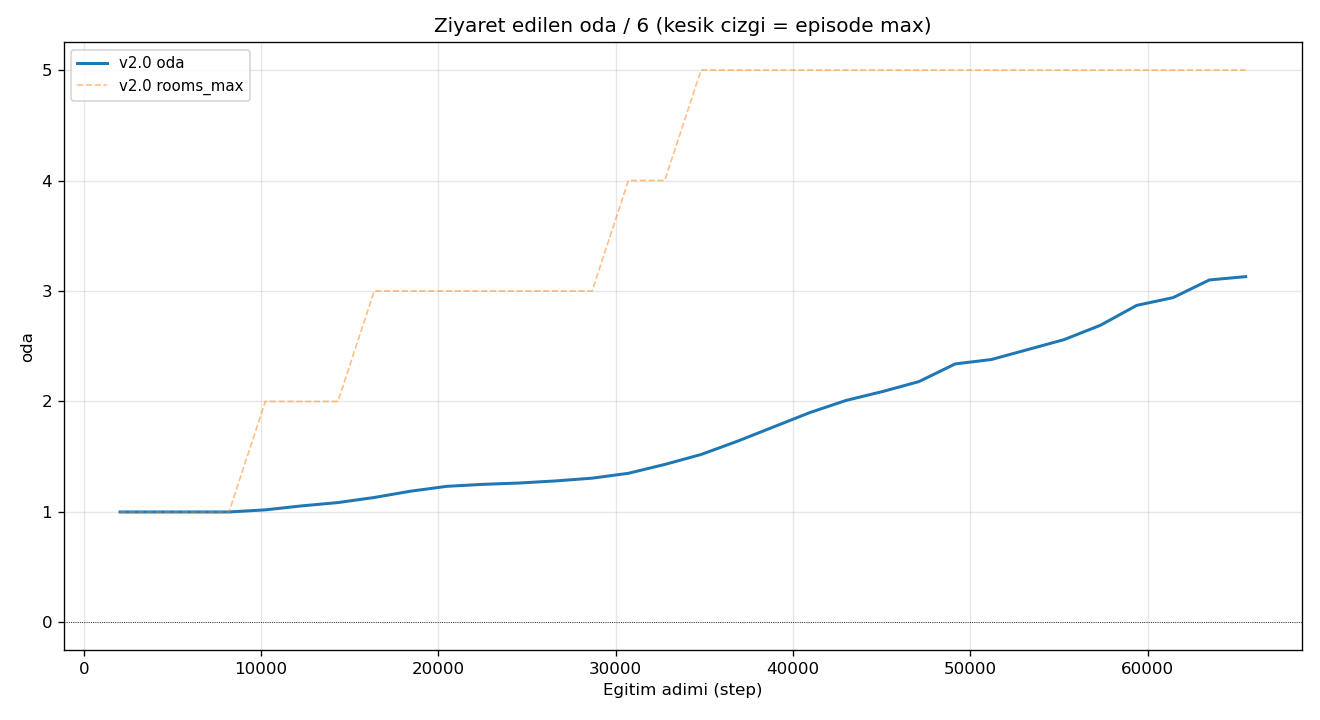
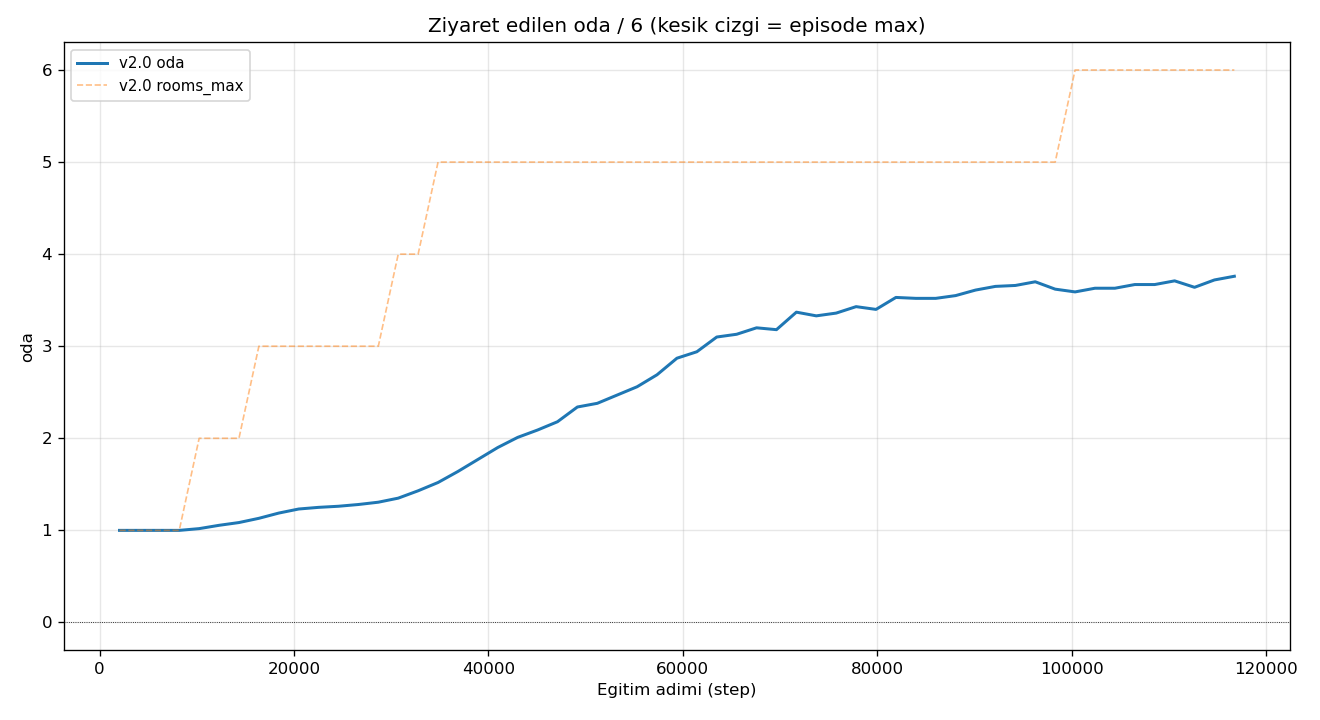
auto(operator): refresh report @116k step, reward peak 80.8 (healthy)

diff --git a/docs/REPORT.md b/docs/REPORT.md
@@ -6,7 +6,7 @@ Otomatik uretildi (`scripts/report.py`). Operator agent gunceller.
 
 | Versiyon | Son step | Son reward | Peak reward | Peak voxel (max) | Peak oda (max) |
 |---|---|---|---|---|---|
-| v2.0 | 65,536 | +53.9 | +53.9 | 160/1024 | 5/6 |
+| v2.0 | 116,736 | +80.8 | +80.8 | 181/1024 | 6/6 |
 
 ## Versiyon / Mudahale Gunlugu
 
